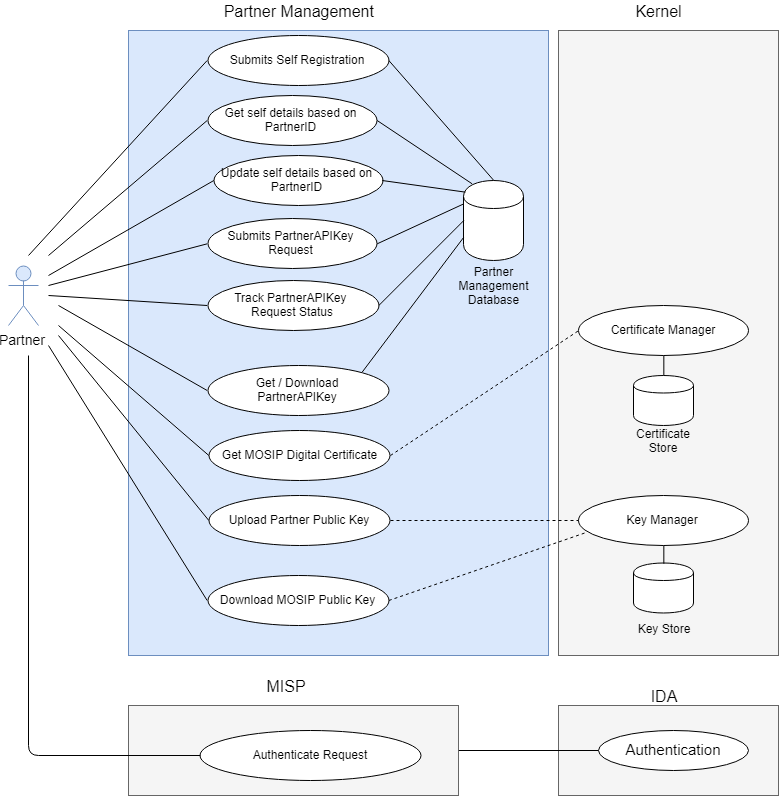
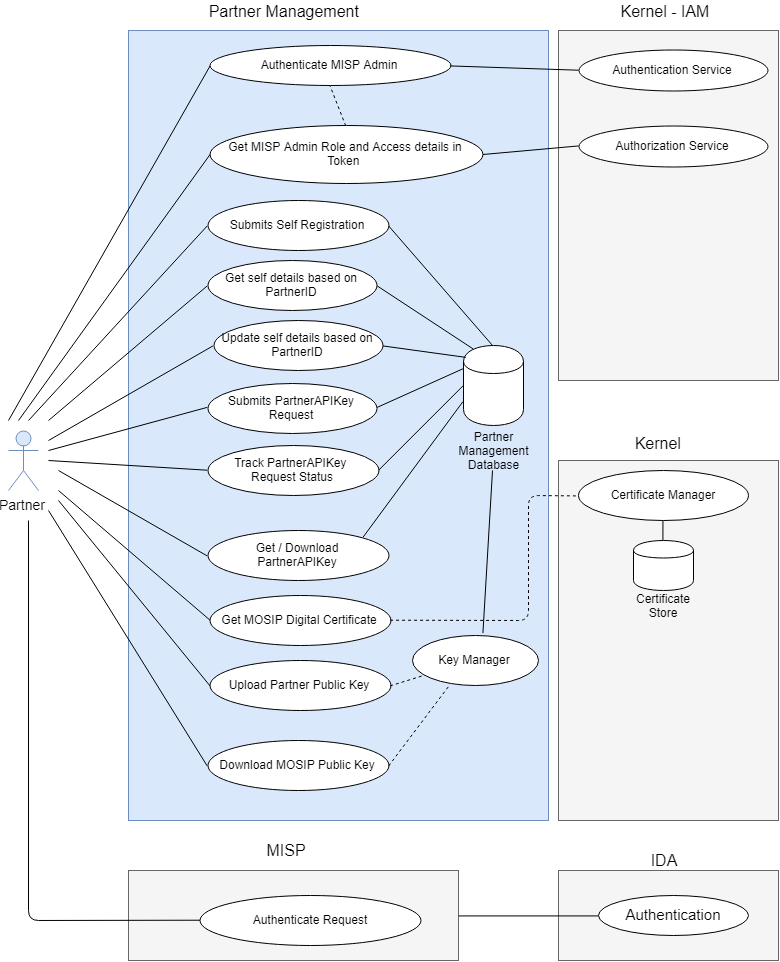
Partner Management - High Level Design - Incorporated Review comments and client directions

diff --git a/Partner-Management.md b/Partner-Management.md
@@ -12,17 +12,18 @@ Please refer to the [**process flow**](Process-view#id-authentication) of Partne
 
 ## Architecturally Significant Use Cases
 **User Management**
-* MOSIP admin would be able to create and manage(update,view) Partner Management users viz- MISP, Partner Manager, Policy Manager. Role authorization and access control for these users would be done at Kernel's Identity and Access Management (IAM) module
+* MOSIP admin would be able to create and manage(update,view) Partner Management users viz- MISP Admin, Partner Manager, Policy Manager in Kernel's Identity and Access Management (IAM) module. Role authorization and access control for these users would be done at Kernel's Identity and Access Management (IAM) module
 * MOSIP admin would be able to issue and map license key to MISP. MOSIP admin would be able to list MISPs and would be able to activate/de-activate MISP, as well as MISP license key for a particular MISP
 * MOSIP admin would be able to map users (Policy Manager, Partner Manager) to specific policy group. (Policy groups are country specific, that are customize and seeded from backend)
 * MOSIP admin would be able to activate/de-activate policy manager,partner manager
 ![Partner Management User Management](_images/arch_diagrams/PartnerManagement_User_Mgmt.png)
 
 **MOSIP Infrastructure Service Provider (MISP)**
-* MISP will be managing whitelisted IPs at infrastructure security level and every authentication request is intercepted by MISP for validation of request from authorized partners. MISP will append MISP license key with every partner authentication request, that would be taken care at proxy/gateway infrastructure level
-* MISP will receive license key from Partner Management module. MISP would be able to generate new license key request and receive new license key after expiration of existing license key
-* MISP would be able to generate usage statistics report for billing purpose (out of scope for first release)
-![MOSIP Infrastructure Service Provider (MISP) Management](_images/arch_diagrams/PartnerManagement_MISP.png)
+* MISP will be managing whitelisted IPs at infrastructure security level and every authentication request is intercepted by MISP for validation of request from authorized partners. MISP will append MISP license key with every partner authentication request, that would be taken care at infrastructure level
+* MISP will receive license key from Partner Management module 
+* MISP admin would be able to generate new license key request for a MISP and receive new license key after expiration of existing license key
+* MISP would be able to generate usage statistics report for billing purpose (out of scope)
+![MOSIP Infrastructure Service Provider (MISP) Management](_images/arch_diagrams/PartnerManagement_MISPAdmin.png)
 
 **Policy Manager**
 * Policy manager would be able to create policy for the policy group he belongs to
@@ -36,7 +37,7 @@ Please refer to the [**process flow**](Process-view#id-authentication) of Partne
 *  Partner manager would be able to list all partners for a policy group
 *  Partner manager would be able to activate/de-activate partners
 *  Partner manager would be able to approve / reject PartnerAPIKey request, as received from partner
-*  Partner manager would be able to issue PartnerAPIKey(s) to a specified partner for fulfilling specified use case(s) as requested in PartnerAPIKey request 
+*  Partner manager would be able to issue PartnerAPIKey(s) to a specified partner for fulfilling specified use case(s) as requested in PartnerAPIKey request. 
 *  Partner manager would be able to map PartnerAPIKey(s) to a specified partner
 *  Partner manager would be able to map PartnerAPIKey(s) to policy
 *  Partner Manager would be able to retrieve and update partner details for a specific PartnerAPIKey
